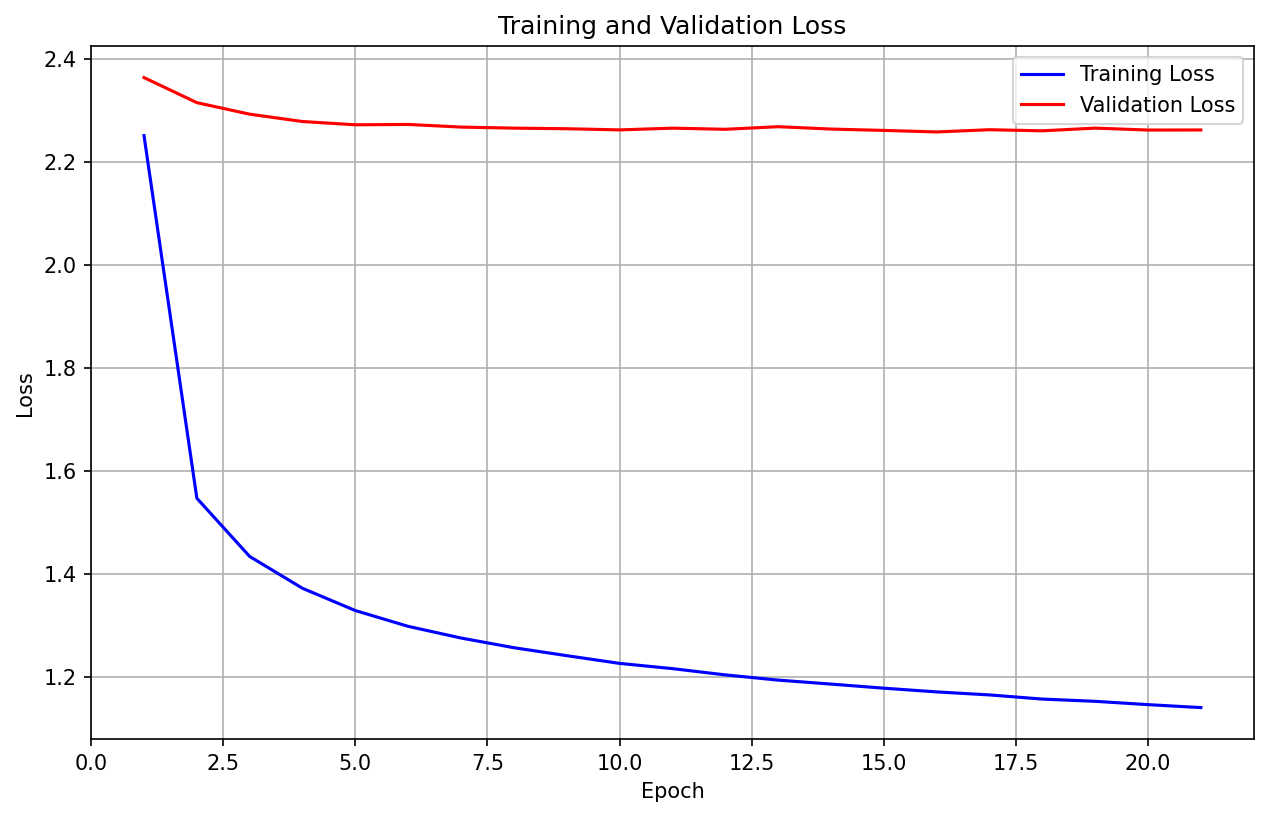
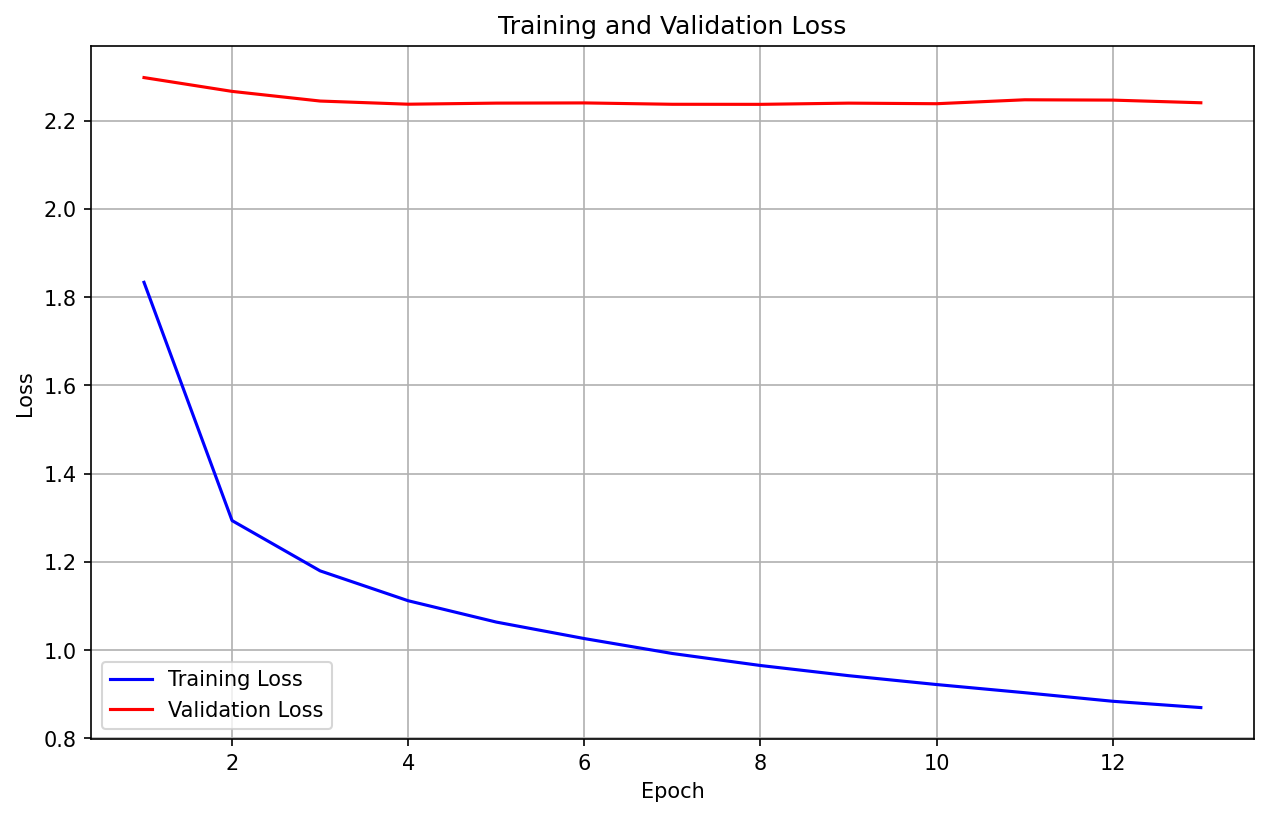
update some result

diff --git a/retrieve_caption.py b/retrieve_caption.py
@@ -1,0 +1,256 @@
+"""Image-to-Caption Retrieval using trained projection heads.
+
+Usage:
+  python retrieve_caption.py <image_id> <k>           # Use existing COCO image by ID
+  python retrieve_caption.py <image_path> <k>         # Use new image file
+  
+Examples:
+  python retrieve_caption.py 139 5                    # Top 5 captions for COCO image ID 139
+  python retrieve_caption.py my_image.jpg 3           # Top 3 captions for new image
+"""
+import sys
+import json
+from pathlib import Path
+import torch
+import torch.nn as nn
+import torch.nn.functional as F
+from PIL import Image
+import matplotlib.pyplot as plt
+from transformers import AutoProcessor, AutoModel
+
+# ======================== CONFIGURATION ========================
+DATASET_NAME = "val2017"            # Which dataset to search in
+MODEL_PATH = "models/best"          # Path prefix for projection models
+HIDDEN_DIM = 1024                   # Must match training config
+OUTPUT_DIM = 1024                   # Must match training config
+DEVICE = "cuda" if torch.cuda.is_available() else "cpu"
+# ===============================================================
+
+class ProjectionHead(nn.Module):
+    def __init__(self, input_dim):
+        super().__init__()
+        self.mlp = nn.Sequential(
+            nn.Linear(input_dim, HIDDEN_DIM),
+            nn.ReLU(),
+            nn.Dropout(0.1),
+            nn.Linear(HIDDEN_DIM, OUTPUT_DIM),
+            nn.LayerNorm(OUTPUT_DIM)
+        )
+    
+    def forward(self, x):
+        return self.mlp(x)
+
+def load_models_and_data():
+    """Load trained projection models and dataset embeddings"""
+    print("Loading models and data...")
+    
+    # Load dataset embeddings and metadata
+    outputs_dir = Path("outputs")
+    image_embeddings = torch.load(outputs_dir / f"{DATASET_NAME}_image_embeddings.pt").float()
+    text_embeddings = torch.load(outputs_dir / f"{DATASET_NAME}_text_embeddings.pt").float()
+    
+    with open(outputs_dir / f"{DATASET_NAME}_metadata.json", "r") as f:
+        metadata = json.load(f)
+    
+    # Get embedding dimensions
+    image_dim = image_embeddings.shape[1]
+    text_dim = text_embeddings.shape[1]
+    
+    # Load projection models
+    image_proj = ProjectionHead(image_dim).to(DEVICE)
+    text_proj = ProjectionHead(text_dim).to(DEVICE)
+    
+    image_proj.load_state_dict(torch.load(f"{MODEL_PATH}_image_projection.pt", map_location=DEVICE))
+    text_proj.load_state_dict(torch.load(f"{MODEL_PATH}_text_projection.pt", map_location=DEVICE))
+    
+    image_proj.eval()
+    text_proj.eval()
+    
+    # Project all text embeddings to search space
+    with torch.no_grad():
+        text_embeddings = text_embeddings.to(DEVICE)
+        projected_text = text_proj(text_embeddings)
+        projected_text = F.normalize(projected_text, dim=-1)
+    
+    print(f"Loaded {len(metadata['captions'])} captions for search")
+    
+    return image_proj, projected_text, metadata, image_embeddings
+
+def encode_new_image(image_path, image_proj):
+    """Encode a new image using the original SigLIP encoder and projection"""
+    print(f"Encoding new image: {image_path}")
+    
+    # Load SigLIP processor and model
+    model_cache_dir = Path("pretrained_encoders")
+    image_model_name = "google/siglip2-giant-opt-patch16-256"
+    
+    processor = AutoProcessor.from_pretrained(
+        image_model_name, 
+        cache_dir=model_cache_dir / "siglip2-giant"
+    )
+    model = AutoModel.from_pretrained(
+        image_model_name,
+        torch_dtype=torch.bfloat16,
+        device_map="auto",
+        cache_dir=model_cache_dir / "siglip2-giant"
+    )
+    model.eval()
+    
+    # Load and process image
+    image = Image.open(image_path).convert("RGB")
+    
+    with torch.no_grad():
+        inputs = processor(images=image, return_tensors="pt")
+        inputs = {k: v.to(model.device) for k, v in inputs.items()}
+        
+        # Get image features
+        image_features = model.get_image_features(**inputs)
+        image_features = F.normalize(image_features, dim=-1)
+        
+        # Project to search space
+        image_features = image_features.float().to(DEVICE)
+        projected_image = image_proj(image_features)
+        projected_image = F.normalize(projected_image, dim=-1)
+    
+    # Clean up
+    del model, processor
+    torch.cuda.empty_cache()
+    
+    return projected_image, image
+
+def find_image_by_id(image_id, metadata, image_embeddings, image_proj):
+    """Find image embedding by COCO image ID"""
+    try:
+        # Find the index of this image_id in metadata
+        image_indices = [i for i, img_id in enumerate(metadata['image_ids']) if img_id == image_id]
+        if not image_indices:
+            print(f"Error: Image ID {image_id} not found in dataset")
+            return None, None
+        
+        # Use first occurrence (any caption for this image)
+        idx = image_indices[0]
+        image_path = Path(metadata['image_paths'][idx])
+        
+        # Get pre-computed embedding and project it
+        with torch.no_grad():
+            image_emb = image_embeddings[idx:idx+1].to(DEVICE)
+            projected_image = image_proj(image_emb)
+            projected_image = F.normalize(projected_image, dim=-1)
+        
+        # Load image for display
+        image = Image.open(image_path).convert("RGB")
+        
+        return projected_image, image
+    
+    except Exception as e:
+        print(f"Error loading image ID {image_id}: {e}")
+        return None, None
+
+def retrieve_captions(query_embedding, projected_text, metadata, k=5):
+    """Retrieve top-k captions using cosine similarity"""
+    with torch.no_grad():
+        # Compute cosine similarities
+        similarities = torch.matmul(query_embedding, projected_text.T).squeeze()
+        
+        # Get top-k indices
+        top_k_indices = torch.topk(similarities, k).indices.cpu().numpy()
+        top_k_scores = torch.topk(similarities, k).values.cpu().numpy()
+    
+    # Get corresponding captions
+    results = []
+    for idx, score in zip(top_k_indices, top_k_scores):
+        caption = metadata['captions'][idx]
+        image_id = metadata['image_ids'][idx]
+        results.append({
+            'caption': caption,
+            'score': float(score),
+            'image_id': image_id,
+            'index': int(idx)
+        })
+    
+    return results
+
+def display_results(image, results, query_info):
+    """Display query image and top-k captions"""
+    plt.figure(figsize=(12, 8))
+    
+    # Display image
+    plt.subplot(1, 2, 1)
+    plt.imshow(image)
+    plt.axis('off')
+    plt.title(f"Query Image\n{query_info}", fontsize=12)
+    
+    # Display captions
+    plt.subplot(1, 2, 2)
+    plt.axis('off')
+    
+    caption_text = "Top Retrieved Captions:\n\n"
+    for i, result in enumerate(results):
+        caption_text += f"{i+1}. {result['caption']}\n"
+        caption_text += f"   Score: {result['score']:.3f}\n"
+        caption_text += f"   Image ID: {result['image_id']}\n\n"
+    
+    plt.text(0.05, 0.95, caption_text, transform=plt.gca().transAxes, 
+             fontsize=14, verticalalignment='top', fontfamily='monospace')
+    
+    plt.tight_layout()
+    
+    # Save plot
+    plots_dir = Path("plots")
+    plots_dir.mkdir(exist_ok=True)
+    plt.savefig(plots_dir / "retrieval_results.png", dpi=150, bbox_inches='tight')
+    plt.show()
+
+def main():
+    if len(sys.argv) != 3:
+        print("Usage:")
+        print("  python retrieve_caption.py <image_id> <k>     # Use COCO image ID")
+        print("  python retrieve_caption.py <image_path> <k>   # Use new image file")
+        print("\nExamples:")
+        print("  python retrieve_caption.py 139 5")
+        print("  python retrieve_caption.py my_image.jpg 3")
+        sys.exit(1)
+    
+    query_input = sys.argv[1]
+    k = int(sys.argv[2])
+    
+    # Load models and data
+    image_proj, projected_text, metadata, image_embeddings = load_models_and_data()
+    
+    # Determine if input is image ID or file path
+    try:
+        # Try to parse as image ID
+        image_id = int(query_input)
+        query_embedding, image = find_image_by_id(image_id, metadata, image_embeddings, image_proj)
+        query_info = f"COCO Image ID: {image_id}"
+    except ValueError:
+        # Treat as file path
+        image_path = Path(query_input)
+        if not image_path.exists():
+            print(f"Error: Image file {image_path} not found")
+            sys.exit(1)
+        query_embedding, image = encode_new_image(image_path, image_proj)
+        query_info = f"File: {image_path.name}"
+    
+    if query_embedding is None:
+        sys.exit(1)
+    
+    # Retrieve captions
+    print(f"Searching for top {k} captions...")
+    results = retrieve_captions(query_embedding, projected_text, metadata, k)
+    
+    # Display results
+    print(f"\nTop {k} captions for {query_info}:")
+    print("="*60)
+    for i, result in enumerate(results):
+        print(f"{i+1}. {result['caption']}")
+        print(f"   Similarity: {result['score']:.3f}")
+        print(f"   Source Image ID: {result['image_id']}")
+        print()
+    
+    # Show visualization
+    display_results(image, results, query_info)
+    print(f"Visualization saved to plots/retrieval_results.png")
+
+if __name__ == "__main__":
+    main()

diff --git a/train_projection.py b/train_projection.py
@@ -15,8 +15,8 @@ import matplotlib.pyplot as plt
 
 # ======================== CONFIGURATION ========================
 TRAIN_SPLIT = 0.7           # 70% train, 30% test from train2017
-HIDDEN_DIM = 256            # MLP hidden dimension (reduced to prevent overfitting)
-OUTPUT_DIM = 256            # Final projection dimension
+HIDDEN_DIM = 1024            # MLP hidden dimension (reduced to prevent overfitting)
+OUTPUT_DIM = 1024            # Final projection dimension
 BATCH_SIZE = 1024           # Larger batch for better contrastive learning
 LEARNING_RATE = 5e-4        # Reduced learning rate
 WEIGHT_DECAY = 0.05         # Stronger regularization
